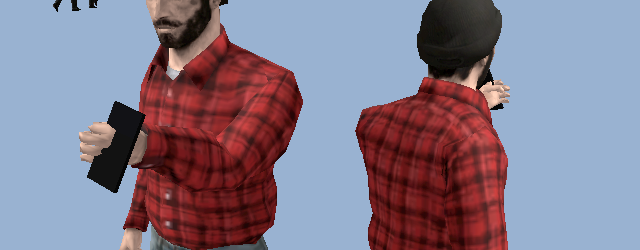
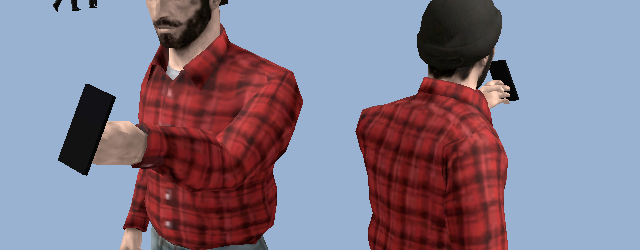
Animator: the filming phone 5 cm left (on the front photo) and 3 cm up (Yasin, 20 Nov: "push it 10 cms to left on that photo and 3 cms up", "actually 5cms left", "not the bone the phone").
Only the phone moves (its offset worked out each frame in his own frame: 4.35 cm toward his right, 2.45 cm forward,
3 cm up), the hand stays. test_crowd_game RESULT PASS.

Changed region(s): [[0.0938, 0.336, 0.25, 0.784], [0.75, 0.224, 0.8125, 0.42], [0.75, 0.42, 0.7812, 0.448]]

diff --git a/native/src/city_crowd.cpp b/native/src/city_crowd.cpp
@@ -1049,11 +1049,21 @@ void CityCrowd::near_update(double p_delta, double p_alpha) {
 							Ref<BoxMesh> bm; bm.instantiate(); bm->set_size(Vector3(0.009f, 0.07f, 0.145f) / k);   // (upright, its face toward him: thin along the hand, tall up its side)
 							Ref<StandardMaterial3D> mat; mat.instantiate(); mat->set_albedo(Color(0.05f, 0.05f, 0.06f)); mat->set_roughness(0.35f); mat->set_metallic(0.3f);
 							m->set_mesh(bm); m->set_material_override(mat); m->set_cast_shadows_setting(GeometryInstance3D::SHADOW_CASTING_SETTING_OFF);
-							m->set_position(Vector3(0.09f, -0.02f, 0.0f) / k);   // (along the hand, past the palm: held in the fingers)
+							nb.phone_base = Vector3(0.09f, -0.02f, 0.0f) / k;   // (along the hand, past the palm: held in the fingers)
+							m->set_position(nb.phone_base);
 							ba->add_child(m); nb.phone = m;
 						}
 					}
 					if (nb.phone) nb.phone->set_visible(rec && nb.ped->get_mode() == CityPed::MODE_ANIM);
+					// (Yasin, 20 Nov: "push it 10 cms to left on that photo and 3 cms up", "actually 5cms left", "not the bone the phone":
+					// the phone alone moves, the hand stays. The photo looks at him from his front-left, so that is 4.35 cm toward his
+					// right, 2.45 cm forward, 3 cm up, in his own frame, whatever way the hand's bone points)
+					if (nb.phone && nb.phone->is_visible()) {
+						if (Node3D *ba = Object::cast_to<Node3D>(nb.phone->get_parent())) {
+							const Vector3 wd = nb.ped->get_global_transform().basis.orthonormalized().xform(Vector3(-0.0435f, 0.03f, 0.0245f));
+							nb.phone->set_position(nb.phone_base + ba->get_global_transform().basis.inverse().xform(wd));
+						}
+					}
 				}
 				// the feet on the real ground, planted ones pinned where they land (Yasin, 20 Nov: "i want them pixel perfect":
 				// tests/people/trace_crowd.gd found walkers' planted feet sliding 0.24-0.36 m/s and feet 23 cm over the ground

diff --git a/native/src/city_crowd.h b/native/src/city_crowd.h
@@ -101,7 +101,7 @@ private:
 		int st_mode = 0, st_walker = -1; float st_t = 0.0f; bool st_moving = false; StringName st_clip;
 		// a phone in his raised hand while he films (Yasin, 20 Nov: "put a rectangular phone like shape in npcs hands when
 		// they are recording"): made the first time it is needed, shown only then
-		class MeshInstance3D *phone = nullptr; };   // act, act_t: what it shows and for how long (the way INTO an act is played once)
+		class MeshInstance3D *phone = nullptr; Vector3 phone_base; };   // act, act_t: what it shows and for how long (the way INTO an act is played once)
 	// how long the clips into and out of an act are (read from the figure once it is made)
 	bool lens_ok = false;
 	int fight_falls = 0;
